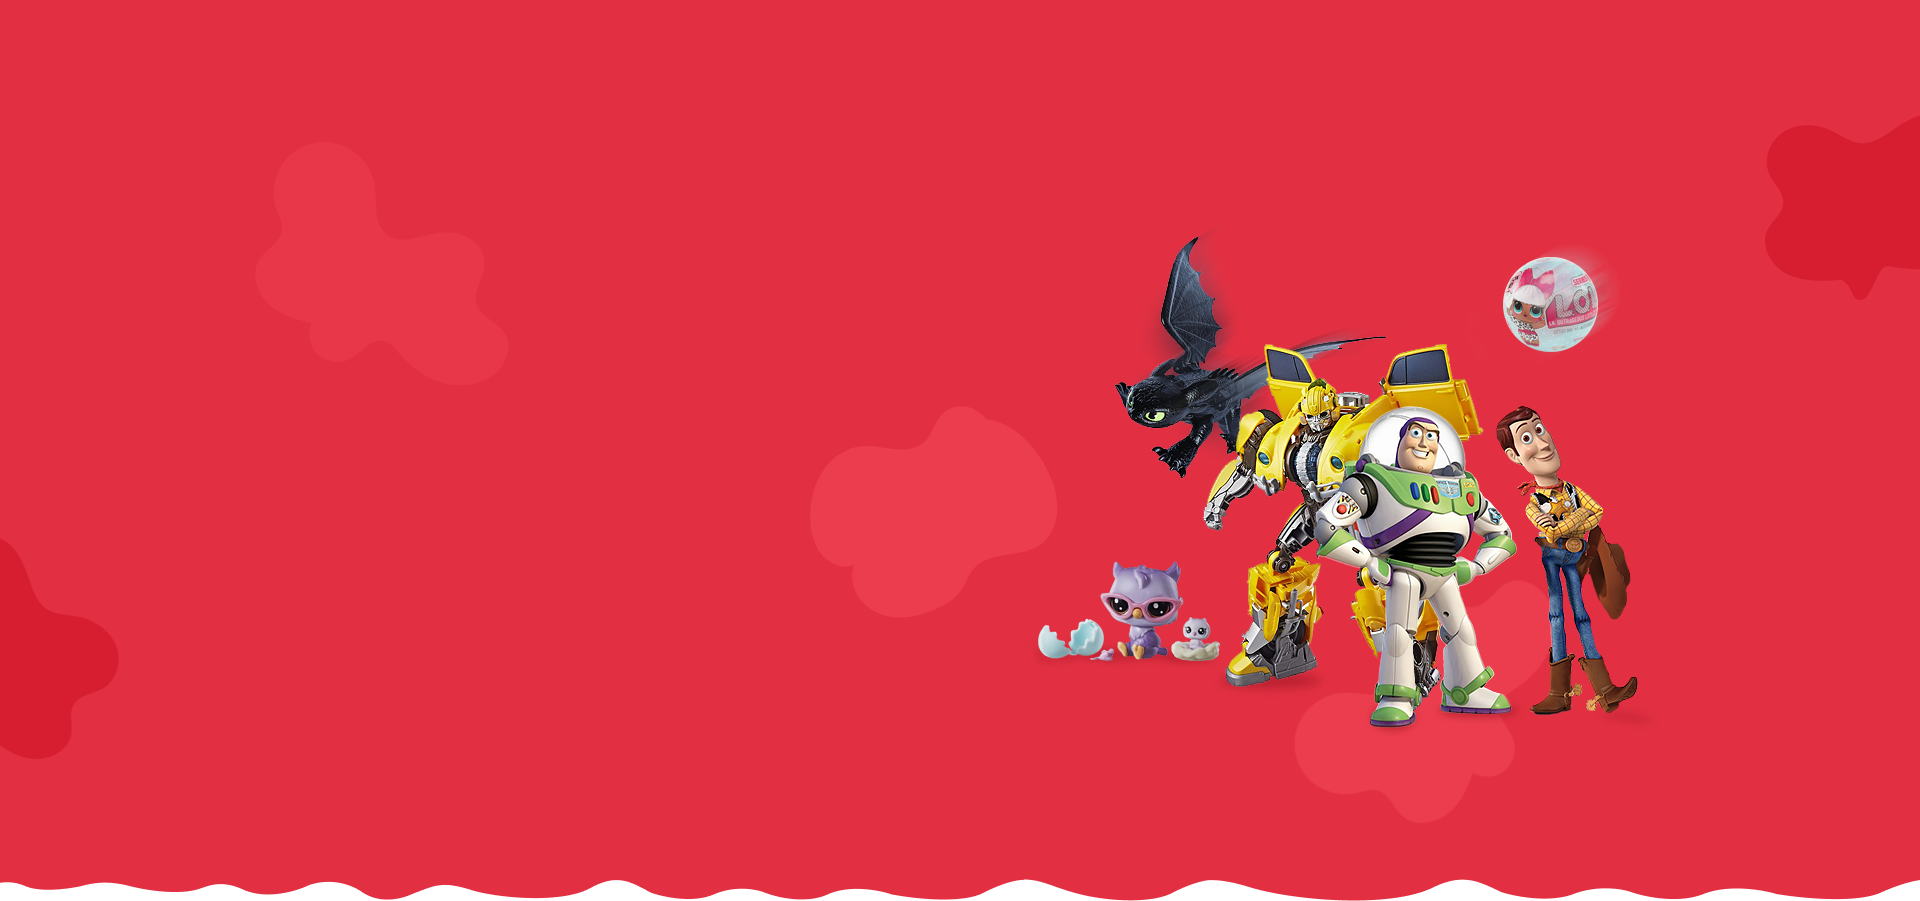
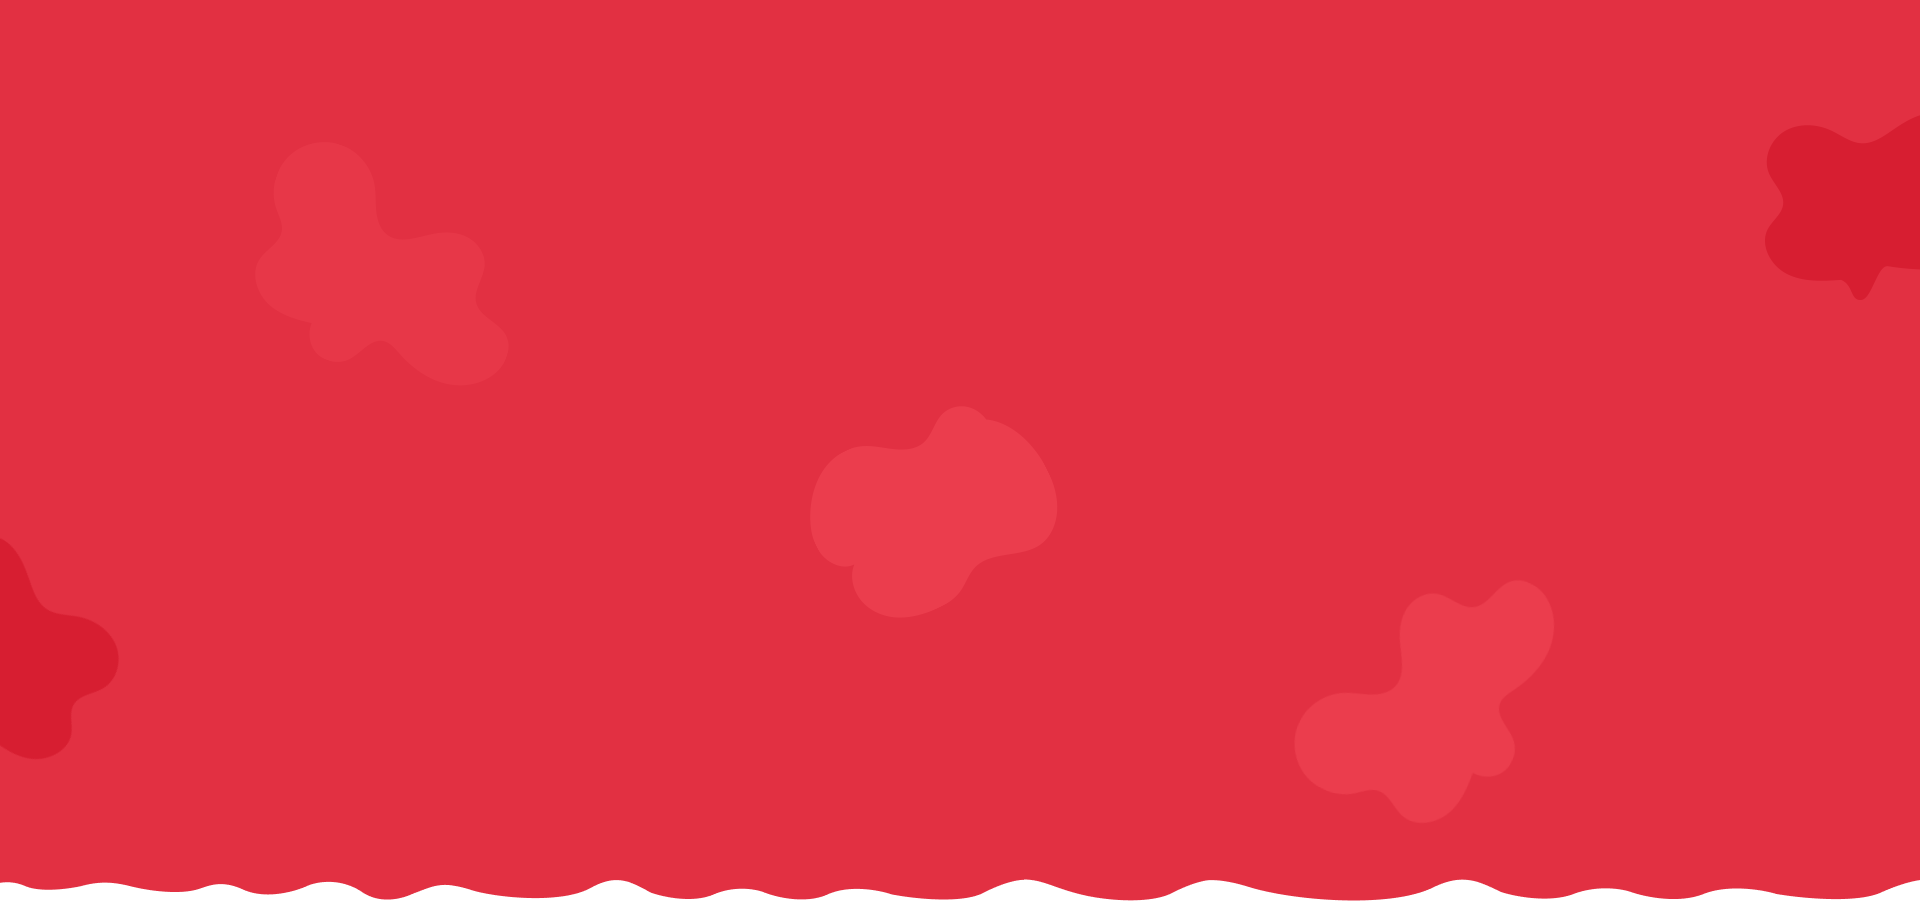
playing around with header

Changed region(s): [[0.5312, 0.2797, 0.875, 0.808]]

diff --git a/index.html b/index.html
@@ -147,7 +147,7 @@
         </div>
 
         <div class="container" id="slider">
-          <div class="d-flex justify-content-between align-items-center">
+          <div class="d-flex align-items-center">
             <div class="owl-carousel owl-theme p-2">
               <div>
                 <h2>Ждем вас за самыми крутыми игрушками!</h2>
@@ -182,6 +182,11 @@
                 proident, sunt in culpa qui officia deserunt mollit anim id est laborum.</p>
               </div>
             </div>
+
+            <div id="toys">
+              <img src="img/toys.png" alt="Toys image">
+            </div>
+
           </div>
         </div>
 

diff --git a/assets/css/style.css b/assets/css/style.css
@@ -12,7 +12,7 @@ body {
 header {
   color: white;
   width: 100%;
-  height: 864px;
+  height: 900px;
   background-image: url("../../img/header-bg.png");
 }
 
@@ -348,10 +348,6 @@ header, #brands #right #play-doh, #brands #right #beyblade, #brands #right #lol,
   margin-bottom: 4px;
 }
 
-#slider {
-  margin-top: 86px;
-}
-
 .owl-theme {
   width: 60%;
   position: relative;
@@ -366,6 +362,10 @@ header, #brands #right #play-doh, #brands #right #beyblade, #brands #right #lol,
 
 .owl-theme p {
   margin-top: 20px;
+}
+
+#toys {
+  width: 40%;
 }
 
 .buy-btn {

diff --git a/#source/scss/style.scss b/#source/scss/style.scss
@@ -13,7 +13,7 @@ body {
 header {
 	color: white;
 	width: 100%;
-	height: 864px;
+	height: 900px;
 	background-image: url('../../img/header-bg.png');
 	@extend %bgImage;
 }
@@ -353,10 +353,6 @@ i {
 	}
 }
 
-#slider {
-	margin-top: 86px;
-}
-
 .owl-theme {
 	width: 60%;	
 	position: relative;
@@ -370,6 +366,10 @@ i {
 		margin-top: 20px;
 	}
 
+}
+
+#toys {
+	width: 40%;
 }
 
 .buy-btn {
